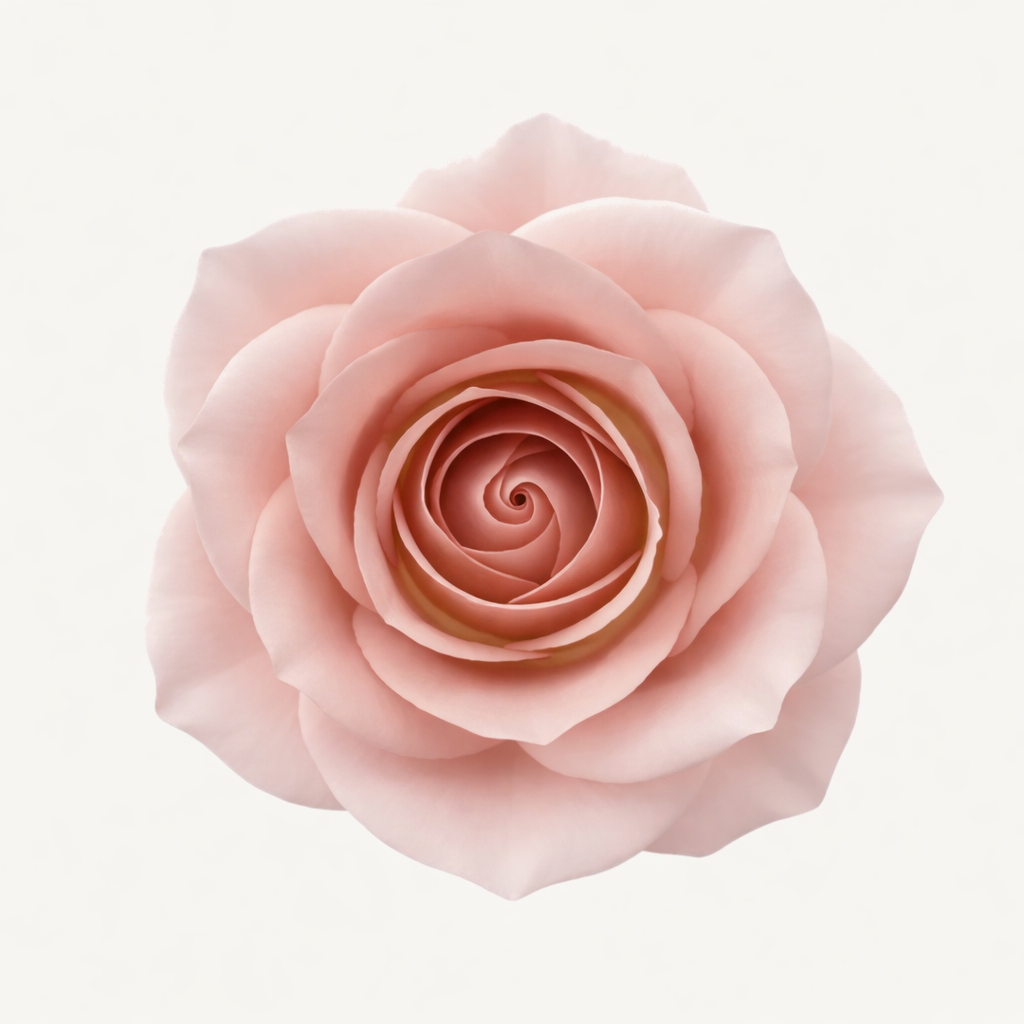
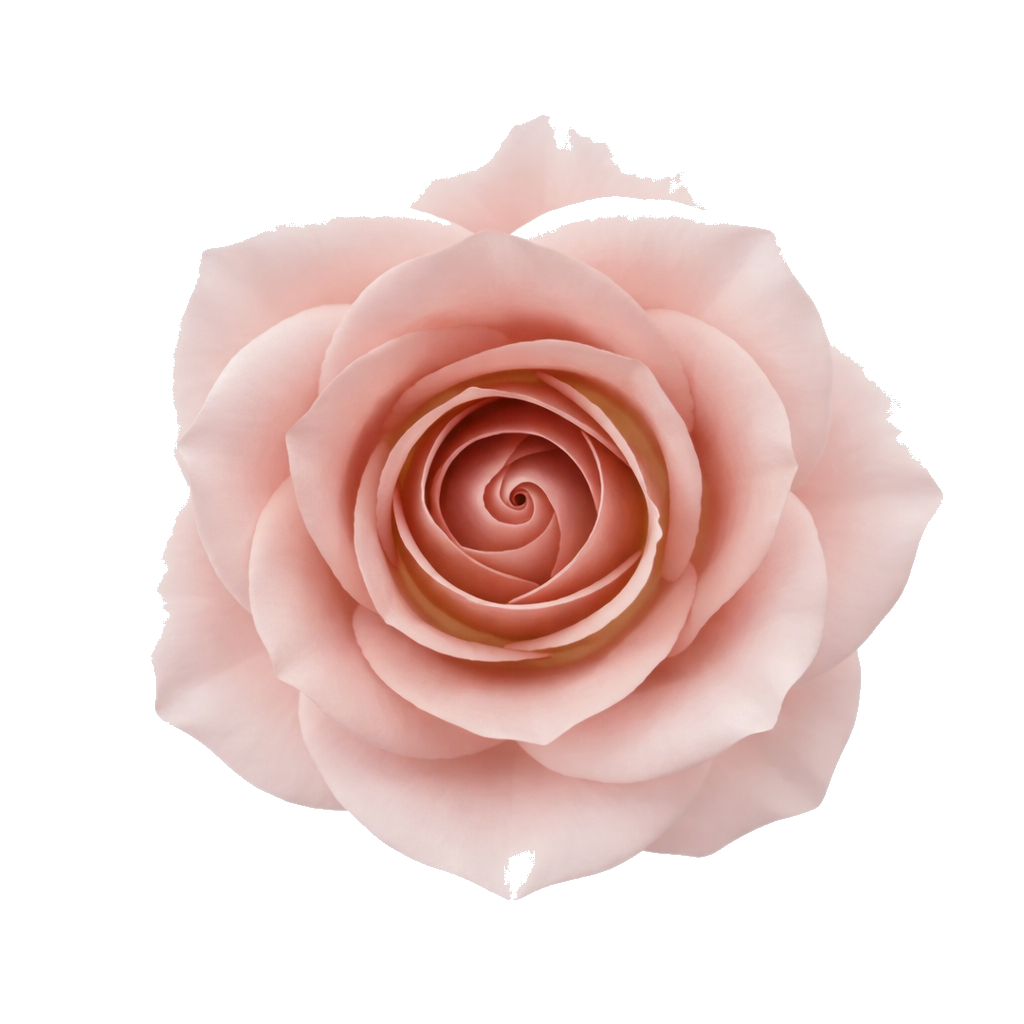
Hide square background behind rose on manual 3 page 11
Remove the off-white background from the rose image PNG using flood-fill
transparency, and remove mix-blend-mode and border-radius from the container
so the rose floats cleanly on the page without a visible rectangle.

https://claude.ai/code/session_01BmcJPDRWLFybmf86DtSy9k

diff --git a/scripts/pdf-manuals/roses-manual-3.html b/scripts/pdf-manuals/roses-manual-3.html
@@ -731,7 +731,7 @@
 
     <div class="inner" style="justify-content: center;">
       <div class="img-full" style="max-width: 360px; border-radius: 0; overflow: visible; background: transparent;">
-        <img src="images/level-3/l3-p13-elements-summary-realistic-rose.png" alt="Elements of Level 3" style="mix-blend-mode: multiply; border-radius: 0;">
+        <img src="images/level-3/l3-p13-elements-summary-realistic-rose.png" alt="Elements of Level 3" style="border-radius: 0;">
       </div>
       <div class="s12"></div>
 
